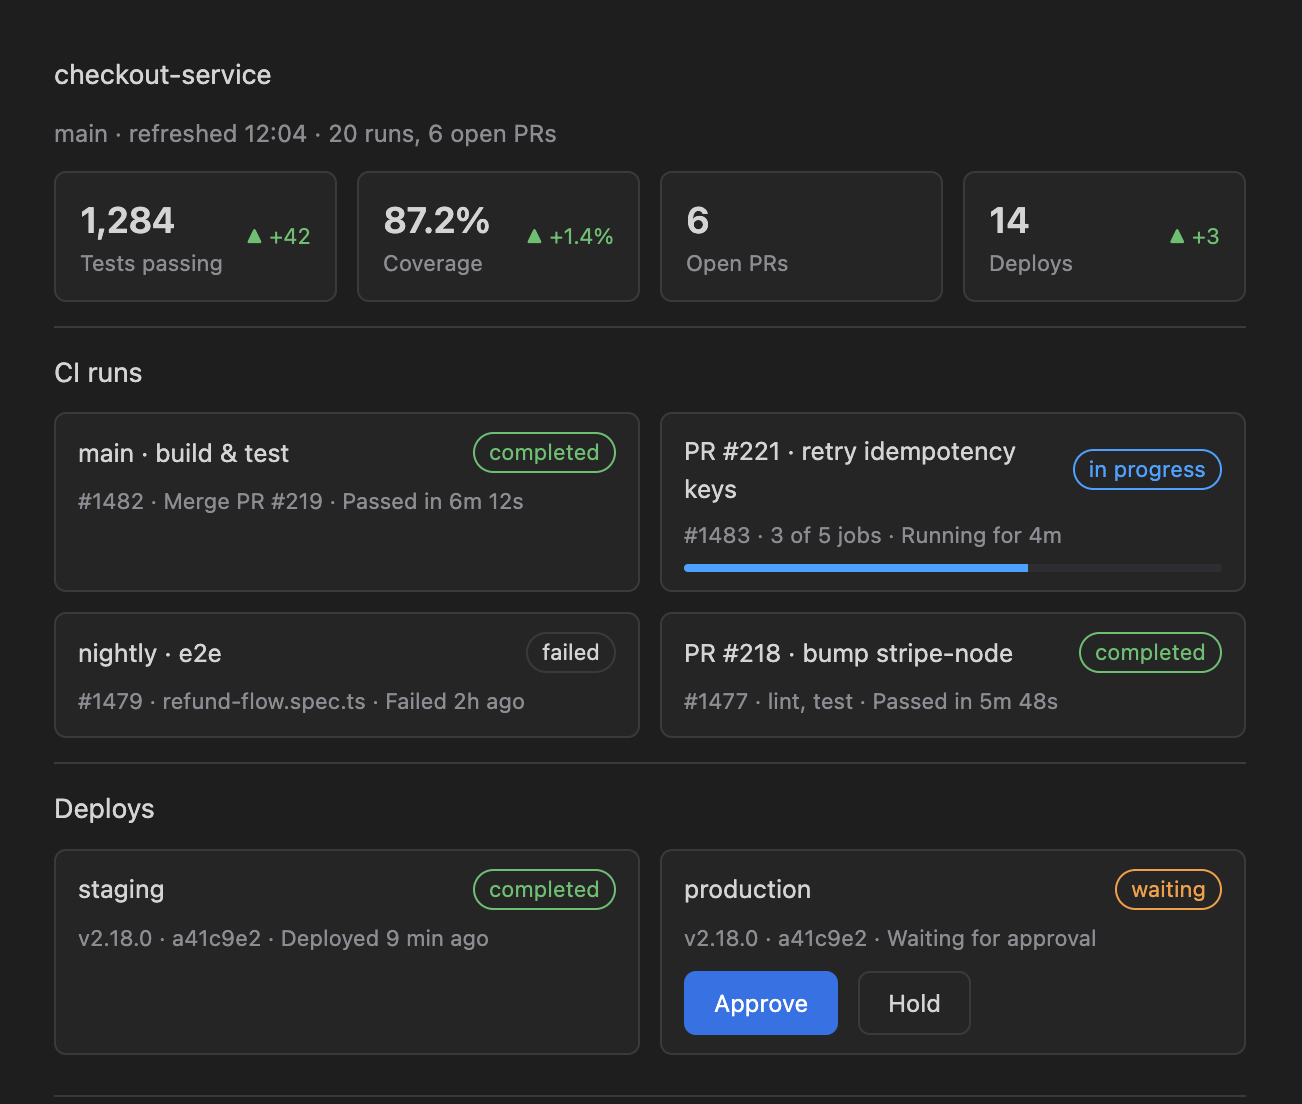
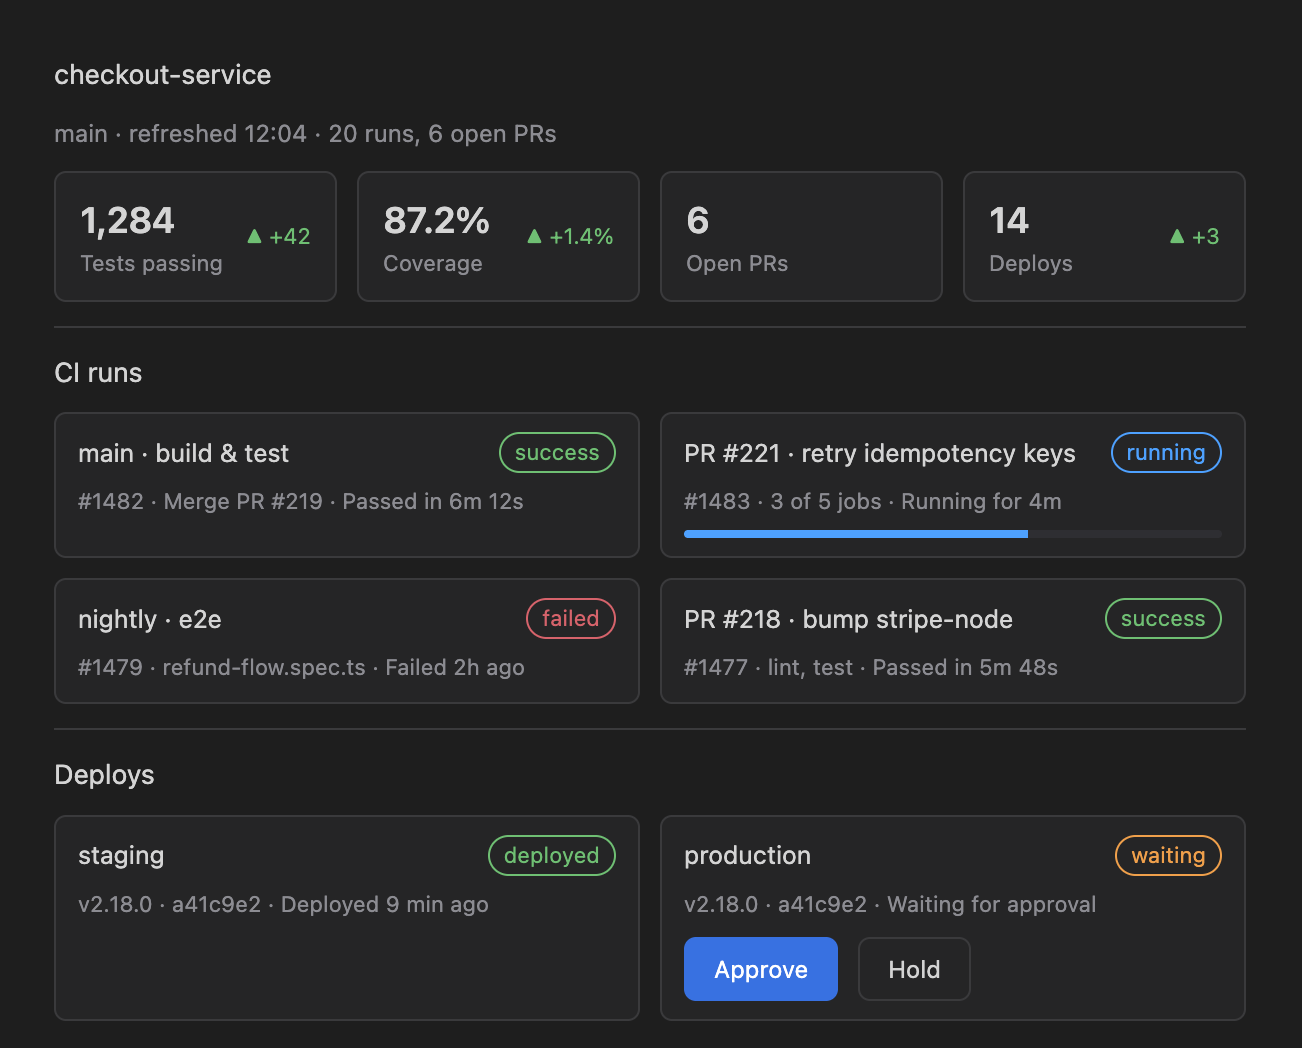
Retake the dashboard screenshots with the StatusCard fixes
The runs are a template again, with CI's own status words: only the running
card has a progress bar, and the failed run reads red.

diff --git a/site/index.html b/site/index.html
@@ -115,7 +115,7 @@
         <p class="body dim">Tiles, status cards, work-item boards and full diffs, all from Roer&rsquo;s own component catalog.</p>
       </div>
       <figure class="shot-frame">
-        <img src="screenshots/gen-ui-dashboard.png" alt="A Generative UI dashboard in Roer: test, coverage, PR and deploy tiles, CI run cards and a production deploy awaiting approval" width="1302" height="1104" loading="lazy">
+        <img src="screenshots/gen-ui-dashboard.png" alt="A Generative UI dashboard in Roer: test, coverage, PR and deploy tiles, CI run cards and a production deploy awaiting approval" width="1302" height="1048" loading="lazy">
       </figure>
     </div>
 
